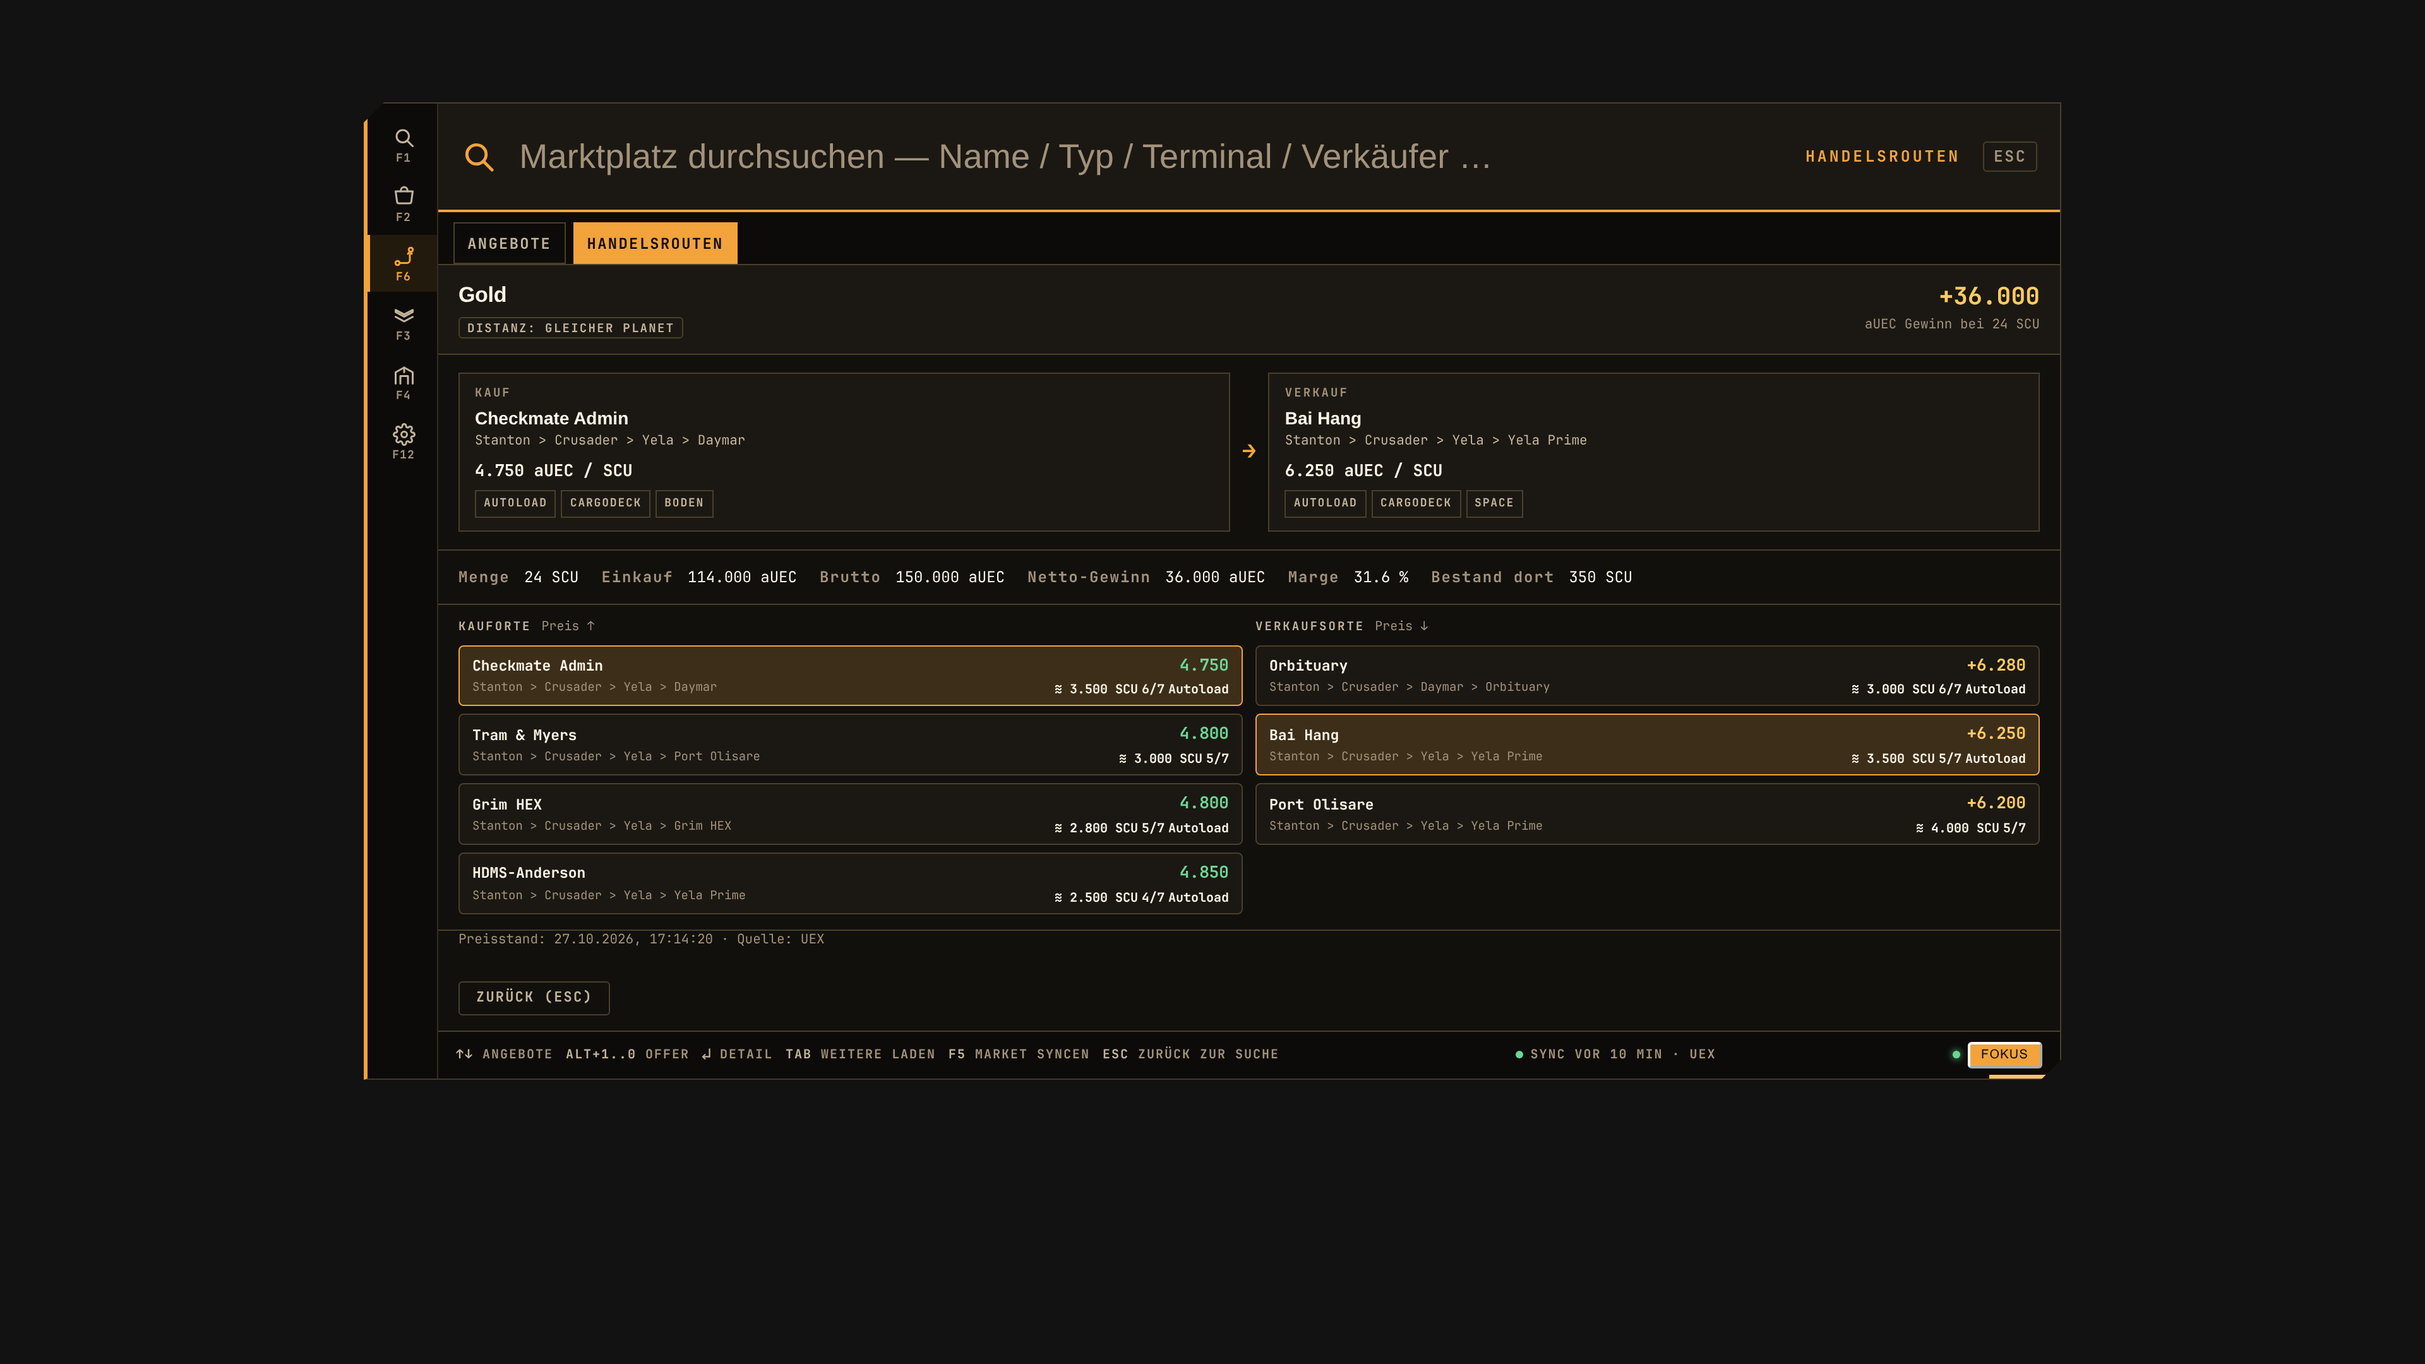
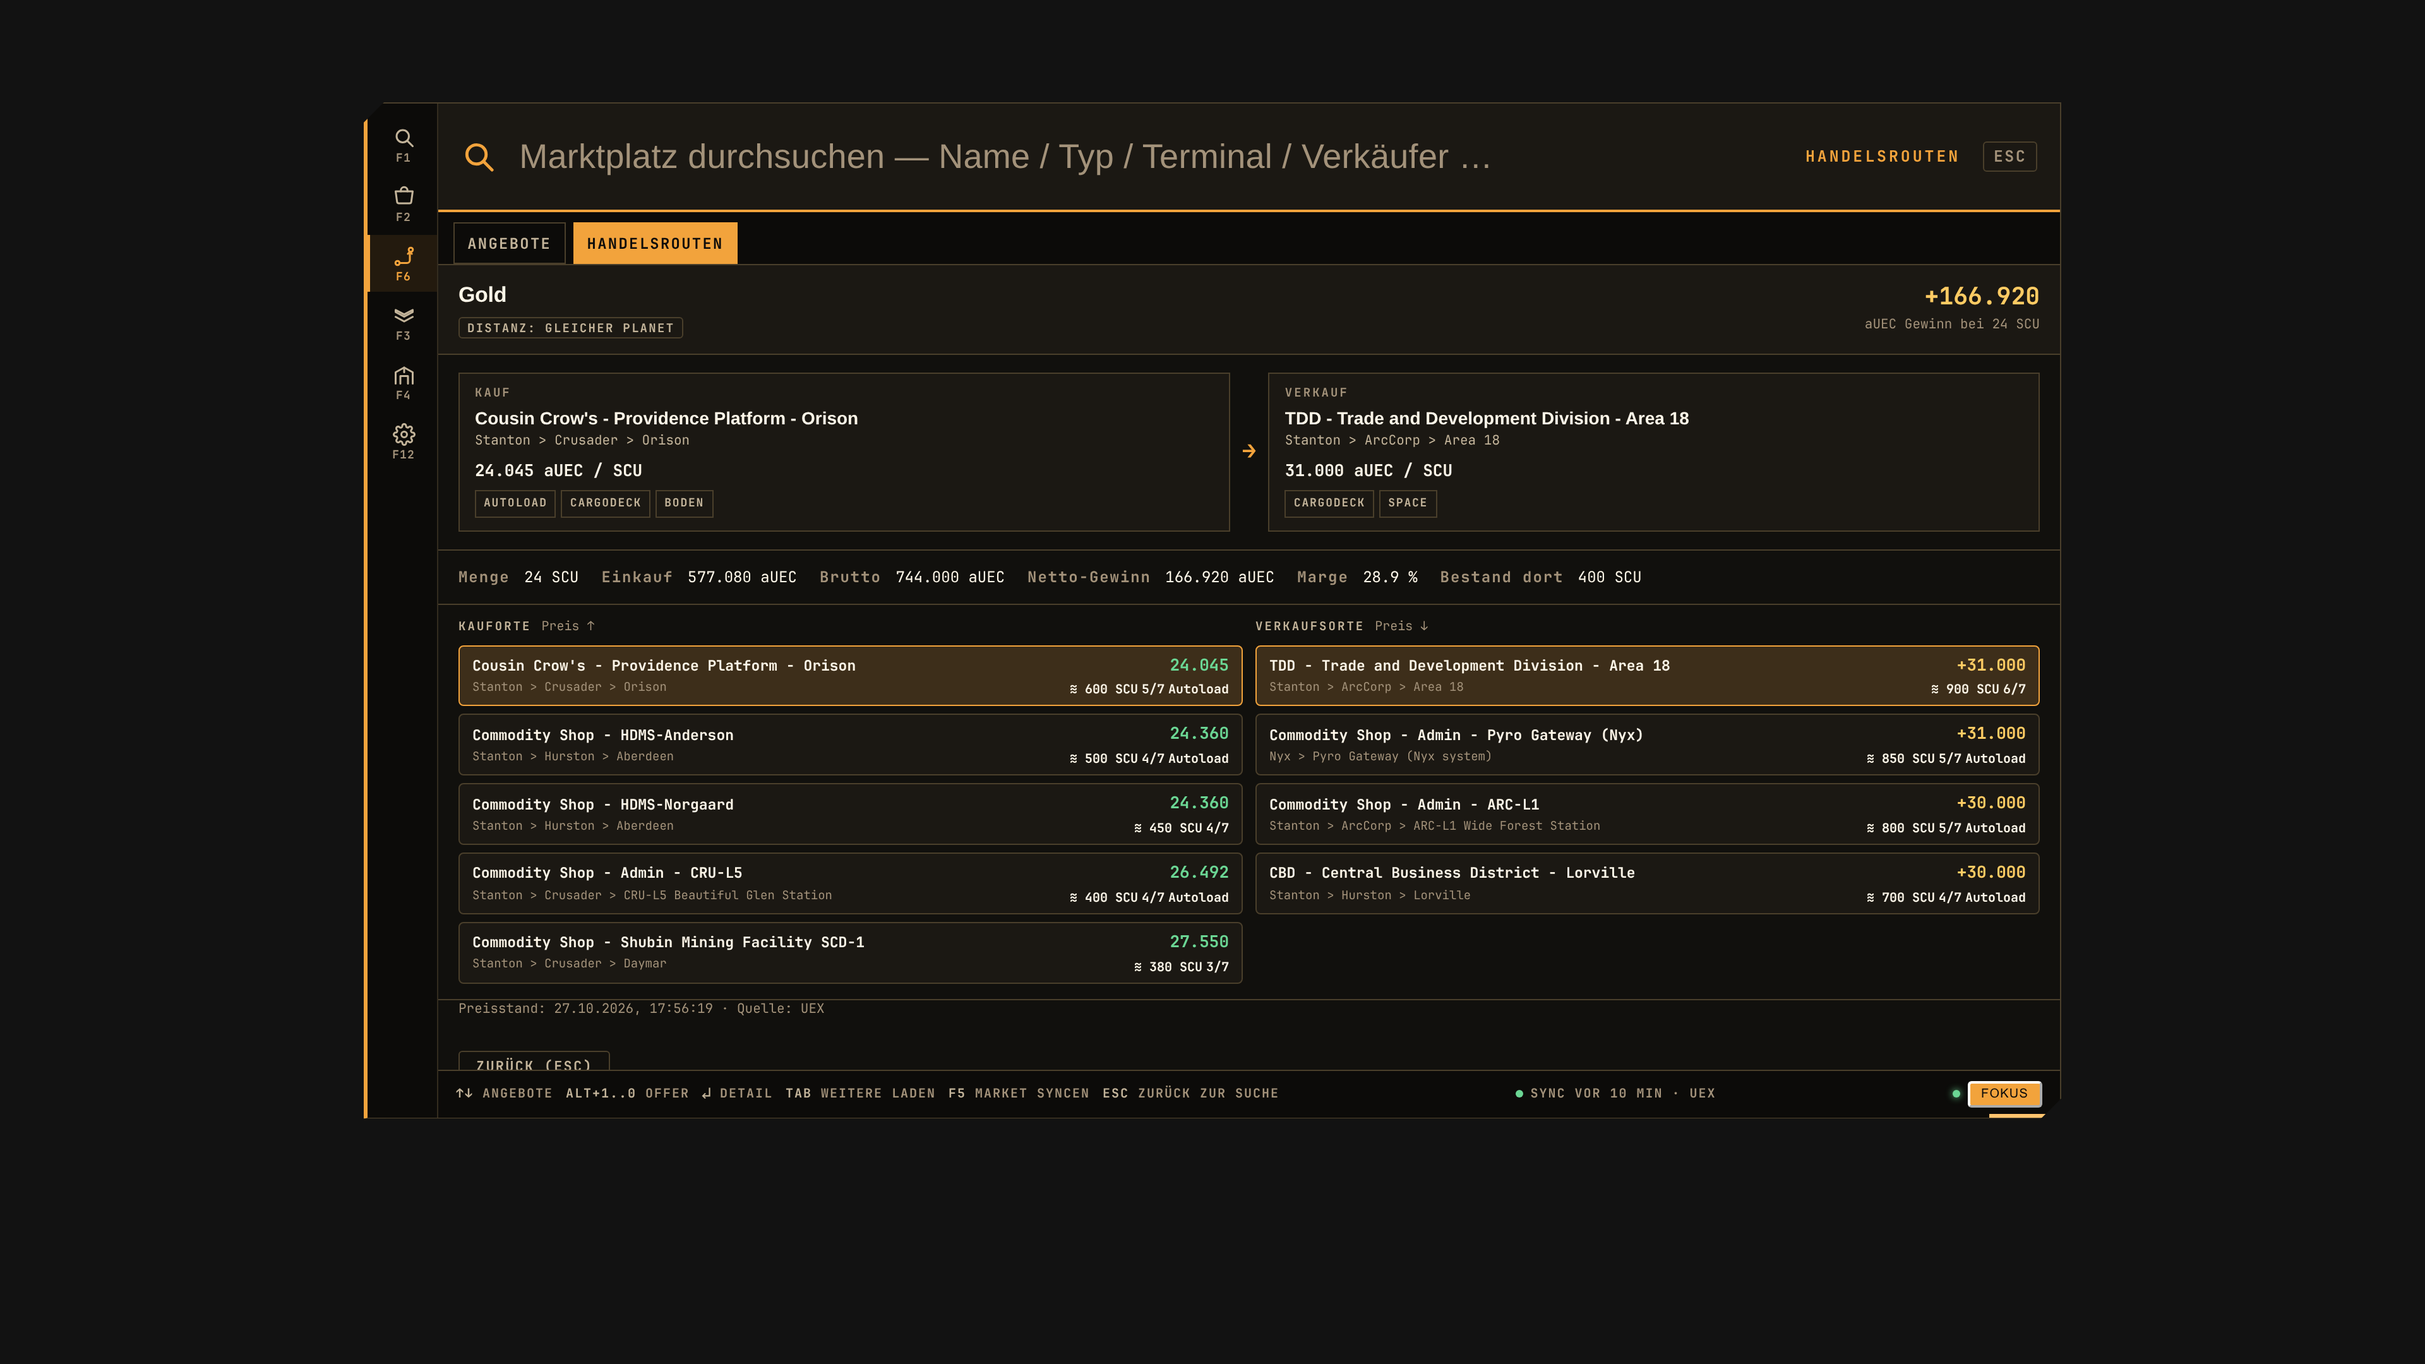
RF2: Alternative-Orte-Tabelle fix — Tauri-IPC-Arg kommodity_id snake_case statt camelCase
Root cause: get_route_locations ist der einzige Command mit MEHRWORT-Arg
auf Top-Level. Tauri v2 mappt top-level Args per Default camelCase (commodityId),
die Svelte-Komponente sendet aber commoditity_id (snake). invoke rejected
→ Frontend-Catch → 'keine Alternativorte', obwohl terminal_prices 14 Buy-/
17 Sell-Orte fuer Gold (33) hat. Der F2-Smoke-Stub beantwortete den Endpoint
selbst (vor IPC) mit Fake-Daten (~4.7k aUEC), deshalb war er nie als realer
Fehler sichtbar.

Fix: #[tauri::command(rename_all = "snake_case")] — der Frontend-Payload
macht damit exakt an. Realer IPC-Regressiontest (get_ipc_response, echter
Command-Dispatch mit exakt dem Frontend-Payload) schlaegt vorher mit
'missing required key commodityId' und gruen nach dem Fix. Stub+Probe auf
echte Gold-Daten (id 33, ~24k/30k aUEC) umgestellt; Probe verifiziert die
Tabelle mit 5 Kauf- + 4 Verkaufsorten, gewaehlter Kombination markiert,
Preis-Sortierung buy↑/sell↓.

Gate: fmt/check, cargo test --workspace (alle gruen), svelte-check 0 errors,
pnpm build, CDP-Probe 10/10 PASS.

diff --git a/docs/scripts/smoke-stub.js b/docs/scripts/smoke-stub.js
@@ -660,15 +660,15 @@ window.__TAURI_INTERNALS__ = {
 					R(4, 'Altruciatoxin', true, [436, 'Checkmate Admin'], 'Stanton > Crusader > Yela > Daymar', 3200, false, false, true, [428, 'Bai Hang'], 'Stanton > Crusader > Yela > Yela Prime', 6200, true, true, false, 120, 2)
 				];
 				// F2 (t_96120e79): GOLD als Beleg „an vielen Orten gekauft/verkauft".
-				// Die Routen werden NUR bei passendem Ware-Filter ergänzt — so bleibt
-				// das unbefilterte Fixture (3 Routen) für die älteren RB1/RB2-Proben
-				// unverändert; die __RB3_EXTRA__-Flag-Gate (t_4e581d1d) ist entfernt.
-				// Die Alternativ-Tabelle liest den neuen `get_route_locations`-Endpkt.
+				// Werte real (RF2 t_71e2f03d): commodity_id 33, Preise/Standorte aus
+				// der Live-Cache-DB. Die Routen werden NUR bei passendem Ware-Filter
+				// ergänzt — so bleibt das unbefilterte Fixture (3 Routen) für die
+				// älteren RB1/RB2-Proben unverändert.
 				const extraGold = [
-					R(60, 'Gold', false, [432, 'Grim HEX'], 'Stanton > Crusader > Yela > Grim HEX', 4800, true, true, false, [437, 'Port Olisare'], 'Stanton > Crusader > Yela > Yela Prime', 6200, false, true, false, 400, 2),
-					R(60, 'Gold', false, [436, 'Checkmate Admin'], 'Stanton > Crusader > Yela > Daymar', 4750, true, true, true, [428, 'Bai Hang'], 'Stanton > Crusader > Yela > Yela Prime', 6250, true, true, false, 350, 2),
-					R(60, 'Gold', false, [430, 'Tram & Myers'], 'Stanton > Crusader > Yela > Port Olisare', 4800, false, true, true, [431, 'Orbituary'], 'Stanton > Crusader > Daymar > Orbituary', 6280, true, true, false, 300, 2),
-					R(60, 'Gold', false, [438, 'HDMS-Anderson'], 'Stanton > Crusader > Yela > Yela Prime', 4850, true, false, true, [428, 'Bai Hang'], 'Stanton > Crusader > Yela > Yela Prime', 6230, true, true, false, 250, 2)
+					R(33, 'Gold', false, [338, 'Cousin Crow\'s - Providence Platform - Orison'], 'Stanton > Crusader > Orison', 24045, true, true, true, [89, 'TDD - Trade and Development Division - Area 18'], 'Stanton > ArcCorp > Area 18', 31000, false, true, false, 400, 2),
+					R(33, 'Gold', false, [12, 'Commodity Shop - HDMS-Anderson'], 'Stanton > Hurston > Aberdeen', 24360, true, false, true, [443, 'Commodity Shop - Admin - Pyro Gateway (Nyx)'], 'Nyx > Pyro Gateway (Nyx system)', 31000, true, true, false, 350, 2),
+					R(33, 'Gold', false, [49, 'Commodity Shop - HDMS-Norgaard'], 'Stanton > Hurston > Aberdeen', 24360, false, true, true, [436, 'Commodity Shop - Admin - ARC-L1'], 'Stanton > ArcCorp > ARC-L1 Wide Forest Station', 30000, true, true, false, 300, 2),
+					R(33, 'Gold', false, [2, 'Commodity Shop - Admin - CRU-L5'], 'Stanton > Crusader > CRU-L5 Beautiful Glen Station', 26492, true, true, false, [90, 'CBD - Central Business District - Lorville'], 'Stanton > Hurston > Lorville', 30000, true, true, false, 250, 2)
 				];
 				const extraDrink = [
 					R(27, 'Distilled Spirits', false, [436, 'Checkmate Admin'], 'Stanton > Crusader > Yela > Daymar', 1427, true, true, true, [437, 'Port Olisare'], 'Stanton > Crusader > Yela > Yela Prime', 2280, true, true, true, 300, 2)
@@ -725,17 +725,20 @@ window.__TAURI_INTERNALS__ = {
 							LOC(431, 'Orbituary', 'Stanton > Crusader > Daymar > Orbituary', 6250, 800, 4, true, true, false)
 						]
 					},
-					60: { // Gold — Sebos Beleg: viele Standorte, nicht nur Anderson
+					33: { // Gold — Sebos Beleg (RF2 t_71e2f03d): Preise/Standorte real aus der
+						// Live-Cache-DB ~/.local/share/com.sebo.architects-overlay/cache.sqlite3
 						buys: [
-							LOC(436, 'Checkmate Admin', 'Stanton > Crusader > Yela > Daymar', 4750, 3500, 6, true, true, true),
-							LOC(430, 'Tram & Myers', 'Stanton > Crusader > Yela > Port Olisare', 4800, 3000, 5, false, true, true),
-							LOC(432, 'Grim HEX', 'Stanton > Crusader > Yela > Grim HEX', 4800, 2800, 5, true, true, false),
-							LOC(438, 'HDMS-Anderson', 'Stanton > Crusader > Yela > Yela Prime', 4850, 2500, 4, true, false, true)
+							LOC(338, 'Cousin Crow\'s - Providence Platform - Orison', 'Stanton > Crusader > Orison', 24045, 600, 5, true, true, true),
+							LOC(12, 'Commodity Shop - HDMS-Anderson', 'Stanton > Hurston > Aberdeen', 24360, 500, 4, true, false, true),
+							LOC(49, 'Commodity Shop - HDMS-Norgaard', 'Stanton > Hurston > Aberdeen', 24360, 450, 4, false, true, true),
+							LOC(2, 'Commodity Shop - Admin - CRU-L5', 'Stanton > Crusader > CRU-L5 Beautiful Glen Station', 26492, 400, 4, true, true, false),
+							LOC(51, 'Commodity Shop - Shubin Mining Facility SCD-1', 'Stanton > Crusader > Daymar', 27550, 380, 3, false, true, true)
 						],
 						sells: [
-							LOC(431, 'Orbituary', 'Stanton > Crusader > Daymar > Orbituary', 6280, 3000, 6, true, true, false),
-							LOC(428, 'Bai Hang', 'Stanton > Crusader > Yela > Yela Prime', 6250, 3500, 5, true, true, false),
-							LOC(437, 'Port Olisare', 'Stanton > Crusader > Yela > Yela Prime', 6200, 4000, 5, false, true, false)
+							LOC(89, 'TDD - Trade and Development Division - Area 18', 'Stanton > ArcCorp > Area 18', 31000, 900, 6, false, true, false),
+							LOC(443, 'Commodity Shop - Admin - Pyro Gateway (Nyx)', 'Nyx > Pyro Gateway (Nyx system)', 31000, 850, 5, true, true, false),
+							LOC(436, 'Commodity Shop - Admin - ARC-L1', 'Stanton > ArcCorp > ARC-L1 Wide Forest Station', 30000, 800, 5, true, true, false),
+							LOC(90, 'CBD - Central Business District - Lorville', 'Stanton > Hurston > Lorville', 30000, 700, 4, true, true, false)
 						]
 					},
 					27: { // Distilled Spirits

diff --git a/src-tauri/src/routes.rs b/src-tauri/src/routes.rs
@@ -63,7 +63,15 @@ pub async fn vehicles_scu(
 /// LOKALEN Routen-Datensatz (kein neuer UEX-Call — nur Cache-Lesung). Im
 /// Routen-Detail der gewählten Ware: Kauforte (Preis aufsteigend) links,
 /// Verkaufsorte (Preis absteigend) rechts, aktuelle Kombi markiert.
-#[tauri::command]
+///
+/// rename_all = "snake_case" (RF2 t_71e2f03d): Tauri v2 mappt top-level
+/// Command-Args per Default camelCase (→ JS `commodityId`), die Svelte-
+/// Komponente sendet aber `commodity_id` (snake, wie alle Filter-Payloads).
+/// Ohne dieses Attribut ist `commodity_id` NIE angebunden → invoke rejected →
+/// „keine Alternativorte", obwohl die Stammdaten da sind. Der zugehörige
+/// IPC-Regressiontest (`get_route_locations_ipc_accepts_snake_case_commodity_arg`)
+/// dispatcht den Command über die ECHTE IPC-Schicht.
+#[tauri::command(rename_all = "snake_case")]
 pub async fn get_route_locations(
     state: tauri::State<'_, crate::trade::TradeState>,
     commodity_id: u64,
@@ -138,6 +146,37 @@ mod tests {
         }
         async fn prices(&self, _c: &str) -> provider::Result<Vec<provider::PricePoint>> {
             Ok(vec![])
+        }
+        async fn route_locations(
+            &self,
+            commodity_id: u64,
+        ) -> provider::Result<Option<provider::routes::RouteCommodityLocations>> {
+            Ok(Some(provider::routes::RouteCommodityLocations {
+                commodity_id,
+                commodity: "Gold".into(),
+                buys: vec![provider::routes::RouteLocation {
+                    terminal_id: 1,
+                    terminal: "HDMS-Anderson".into(),
+                    chain: "Stanton > Hurston".into(),
+                    price: 24000.0,
+                    stock: 500.0,
+                    status: 3,
+                    autoload: false,
+                    cargo_deck: false,
+                    ground: true,
+                }],
+                sells: vec![provider::routes::RouteLocation {
+                    terminal_id: 2,
+                    terminal: "Port Olisar".into(),
+                    chain: "Stanton > Crusader".into(),
+                    price: 31000.0,
+                    stock: 1000.0,
+                    status: 4,
+                    autoload: true,
+                    cargo_deck: false,
+                    ground: false,
+                }],
+            }))
         }
         async fn marketplace_offers(
             &self,
@@ -238,5 +277,60 @@ mod tests {
         // Case-Insensitiv.
         let arc = location_suggest(state.clone(), "arc".to_string()).unwrap();
         assert_eq!(arc, vec!["ARC-L1 Wild Forest Station"]);
+    }
+
+    /// RF2 (t_71e2f03d): REAL-IPC-Regressiontest. Der F2-UI-Probe (smoke-stub)
+    /// hat `get_route_locations` mit handgemachten Dummies beantwortet und damit
+    /// die echte Tauri-Argument-Abbildung übersprungen. Der Live-App schickt
+    /// Svelte aber `{ commodity_id }` (snake_case) — Tauri v2 erwartet für
+    /// top-level Command-Args per Default camelCase (`commodityId`). Bei NUR
+    /// dieser einen Mehrwort-Arg wurde sie nie getroffen → invoke rejected
+    /// → Frontend-Catch → „keine Alternativorte", obwohl die Stammdaten da sind.
+    /// Der Test dispatcht den registrierten Command über die ECHTE IPC-Schicht
+    /// (get_ipc_response) mit exakt dem Frontend-Payload und erzwingt damit,
+    /// dass jeder künftige Wahr-Snake-Arg freiwillig per rename_all gekoppelt
+    /// sein muss.
+    #[test]
+    fn get_route_locations_ipc_accepts_snake_case_commodity_arg() {
+        use tauri::Manager;
+        use tauri::test::{INVOKE_KEY, get_ipc_response, mock_builder, mock_context, noop_assets};
+
+        let app = mock_builder()
+            .invoke_handler(tauri::generate_handler![super::get_route_locations])
+            .manage(crate::trade::TradeState {
+                provider: Arc::new(StubProvider),
+                cache: Arc::new(Cache::open_in_memory().unwrap()),
+                tracker: Arc::new(crate::trade::SyncTracker::default()),
+                wiki_sync: None,
+            })
+            .build(tauri::test::mock_context(noop_assets()))
+            .unwrap();
+
+        let webview = tauri::WebviewWindowBuilder::new(&app, "main", Default::default())
+            .build()
+            .unwrap();
+
+        // Exakt das Argument-Objekt, das die Svelte-Komponente (`+page.svelte`)
+        // für `get_route_locations`, { commodity_id: cur.commodity_id } sendet.
+        let body: tauri::ipc::InvokeBody = serde_json::json!({ "commodity_id": 33 }).into();
+        let req = tauri::webview::InvokeRequest {
+            cmd: "get_route_locations".into(),
+            callback: tauri::ipc::CallbackFn(0),
+            error: tauri::ipc::CallbackFn(1),
+            url: "tauri://localhost".parse().unwrap(),
+            body,
+            headers: Default::default(),
+            invoke_key: INVOKE_KEY.to_string(),
+        };
+
+        let res = get_ipc_response(&webview, req);
+        // Wenn Tauri das snake_case-Arg nicht abbildet, schlägt die IPC-Args-
+        // Deserialisierung fehl → `res` ist ein serde_json-Err "missing field".
+        let ok = res.expect("get_route_locations({commodity_id}) muss über echte IPC ok sein");
+        let locs: provider::routes::RouteCommodityLocations = ok.deserialize().unwrap();
+        assert_eq!(locs.commodity_id, 33);
+        assert_eq!(locs.buys.len(), 1);
+        assert_eq!(locs.buys[0].terminal, "HDMS-Anderson");
+        assert_eq!(locs.sells[0].terminal, "Port Olisar");
     }
 }

diff --git a/docs/scripts/routes-ux-rb3-probe.py b/docs/scripts/routes-ux-rb3-probe.py
@@ -200,15 +200,16 @@ async def main():
         # Stub liefert buys/sells getrennt; die Spalten-Reihenfolge im DOM ist
         # KAUF → VERKAUF (Template). Wir prüfen anhand der Preise: Kauforte
         # steigen auf, Verkaufsorte fallen ab.
-        # Kauforte: Checkmate(4750) < Tram(4800) < Grim(4800) < Anderson(4850).
-        # Verkaufsorte: Orbituary(6280) > Bai(6250) > Olisare(6200).
-        check("f2-gold-multiple-buy-4", len(buy_col["rows"]) >= 4, json.dumps(buy_col["rows"]))
-        check("f2-gold-multiple-sell-3", len(sell_col["rows"]) >= 3, json.dumps(sell_col["rows"]))
-        # Markierte Kombination: die Route kauft bei Checkmate, verkauft bei Bai Hang.
+        # RF2 (t_71e2f03d): Werte real (Preise in aUEC, ~24k/30k) — bester
+        # Kauf Cousin Crow's 24045, bester Verkauf TDD-Area18 31000.
+        check("f2-gold-multiple-buy", len(buy_col["rows"]) >= 5, json.dumps(buy_col["rows"]))
+        check("f2-gold-multiple-sell", len(sell_col["rows"]) >= 4, json.dumps(sell_col["rows"]))
+        # Markierte Kombination: die Route kauft bei Cousin Crow's, verkauft bei
+        # TDD-Area18 (höchster Profit). Header nur bis zur Leerzeile nehmen.
         sel_buy = [r for r in buy_col["rows"] if r["selected"]]
         sel_sell = [r for r in sell_col["rows"] if r["selected"]]
-        check("f2-selected-buy-highlight", len(sel_buy) == 1 and "Checkmate" in sel_buy[0]["term"], json.dumps(sel_buy))
-        check("f2-selected-sell-highlight", len(sel_sell) == 1 and "Bai Hang" in sel_sell[0]["term"], json.dumps(sel_sell))
+        check("f2-selected-buy-highlight", len(sel_buy) == 1 and "Cousin Crow" in sel_buy[0]["term"], json.dumps(sel_buy))
+        check("f2-selected-sell-highlight", len(sel_sell) == 1 and "Area 18" in sel_sell[0]["term"], json.dumps(sel_sell))
         await shot("02-f2-gold-alt-table-highlight.png")
 
         # Ein Klick auf einen Kauf/Verkaufsort setzt Start/Ziel im Filter.
